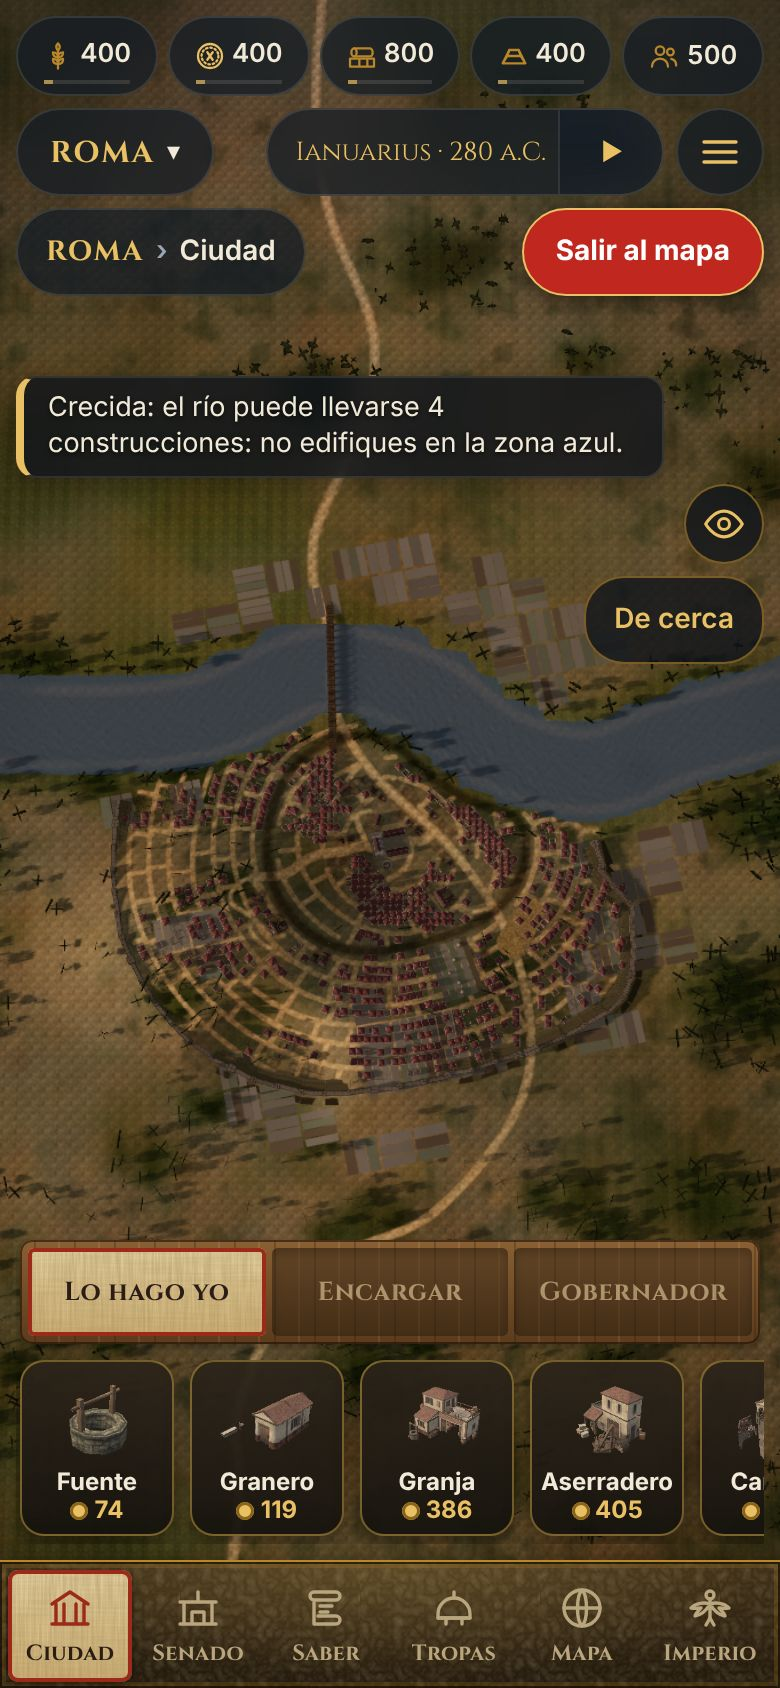
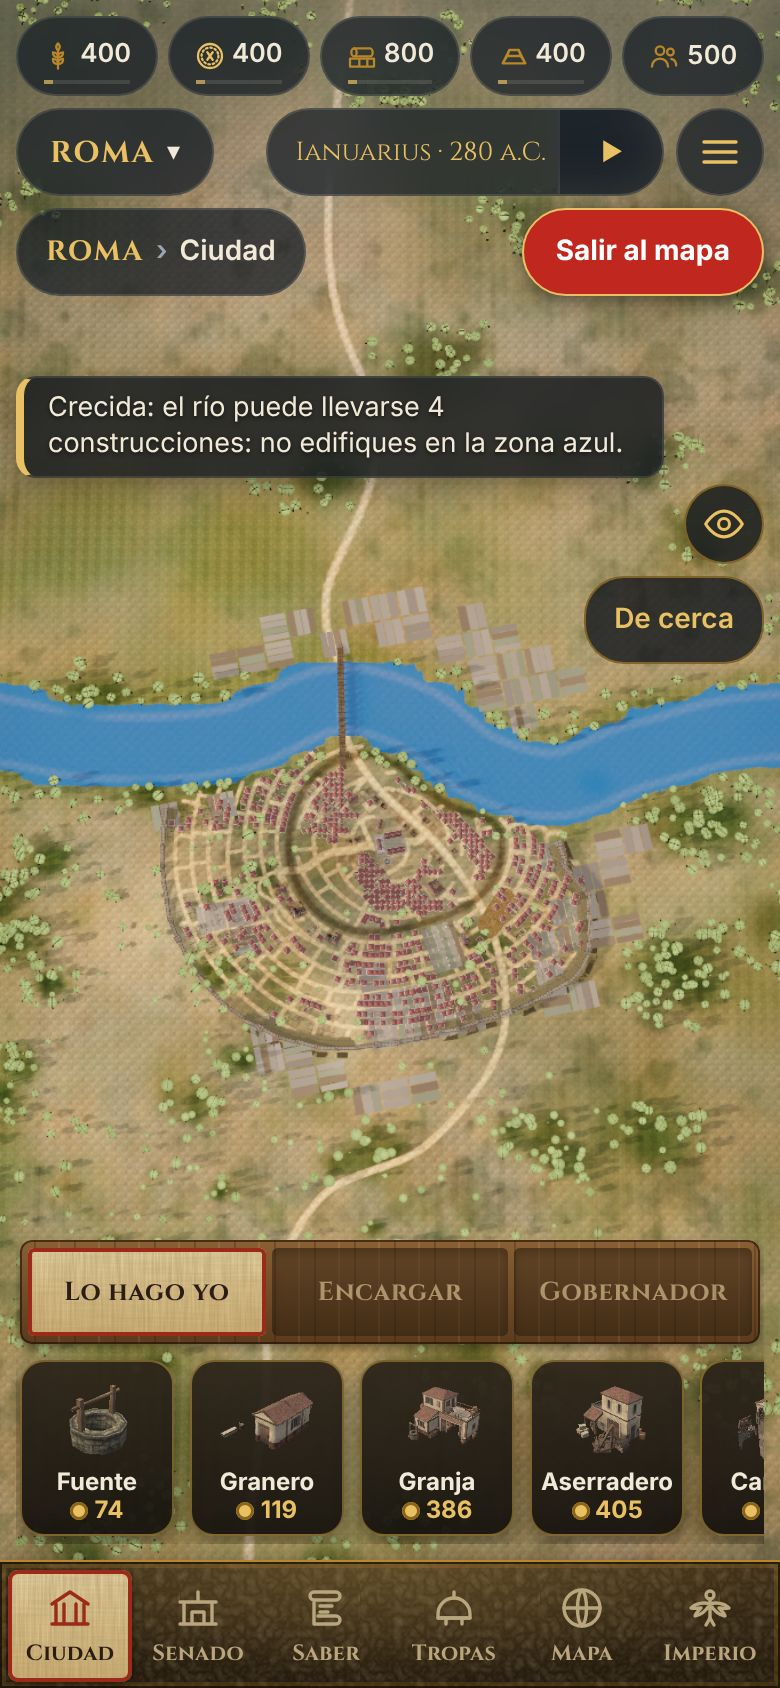
CV1: vuelta de aspecto del plano (luz clara, copas verdes, río azul, más margen, gestos probados); jueces en curso
Claude-Session: https://claude.ai/code/session_01QiKC36fkB6CriHUBrbSzEz

diff --git a/sw.js b/sw.js
@@ -1,5 +1,5 @@
 /* AQVILA — service worker: todo el juego queda en caché para jugar sin conexión */
-const CACHE = 'aqvila-v142';
+const CACHE = 'aqvila-v143';
 const FILES = ['assets/sonido/clamor1.mp3', 'assets/sonido/clamor2.mp3', 'assets/sonido/coro1.mp3', 'assets/sonido/cuerno1.mp3', 'assets/sonido/cuerno2.mp3', 'assets/sonido/escudo1.mp3', 'assets/sonido/escudo2.mp3', 'assets/sonido/escudo3.mp3', 'assets/sonido/escudo4.mp3', 'assets/sonido/esfuerzo1.mp3', 'assets/sonido/esfuerzo2.mp3', 'assets/sonido/esfuerzo3.mp3', 'assets/sonido/esfuerzo4.mp3', 'assets/sonido/grito1.mp3', 'assets/sonido/grito2.mp3', 'assets/sonido/grito3.mp3', 'assets/sonido/herido1.mp3', 'assets/sonido/herido2.mp3', 'assets/sonido/hierro1.mp3', 'assets/sonido/hierro2.mp3', 'assets/sonido/hierro3.mp3', 'assets/sonido/hierro4.mp3', 'assets/sonido/lucha1.mp3', 'assets/sonido/lucha2.mp3', 'assets/sonido/madera1.mp3', 'assets/sonido/madera2.mp3', 'assets/sonido/madera3.mp3', 'assets/sonido/madera4.mp3', 'assets/sonido/paso1.mp3', 'assets/sonido/paso2.mp3', 'assets/sonido/paso3.mp3', 'assets/sonido/paso4.mp3', 'assets/sonido/viento1.mp3', 'assets/sonido/vuelo1.mp3', 'assets/sonido/vuelo2.mp3', 'assets/sonido/vuelo3.mp3', 'assets/soldados/movimientos_escudo_36.bin', 'assets/soldados/movimientos_escudo_74.bin', 'assets/soldados/falangita.bin', 'assets/soldados/falangita.json', 'assets/soldados/falangita_color.webp', 'assets/soldados/falangita_fondo.bin', 'assets/soldados/falangita_fondo.json', 'assets/soldados/falangita_fondo_color.webp', 'assets/soldados/falangita_fondo_masc.webp', 'assets/soldados/falangita_fondo_normal.webp', 'assets/soldados/falangita_fondo_orm.webp', 'assets/soldados/falangita_lejos.bin', 'assets/soldados/falangita_lejos.json', 'assets/soldados/falangita_lejos_color.webp', 'assets/soldados/falangita_lejos_masc.webp', 'assets/soldados/falangita_lejos_normal.webp', 'assets/soldados/falangita_lejos_orm.webp', 'assets/soldados/falangita_masc.webp', 'assets/soldados/falangita_muylejos.bin', 'assets/soldados/falangita_muylejos.json', 'assets/soldados/falangita_muylejos_color.webp', 'assets/soldados/falangita_muylejos_masc.webp', 'assets/soldados/falangita_muylejos_normal.webp', 'assets/soldados/falangita_muylejos_orm.webp', 'assets/soldados/falangita_normal.webp', 'assets/soldados/falangita_orm.webp', 'assets/soldados/hondero.bin', 'assets/soldados/hondero.json', 'assets/soldados/hondero_color.webp', 'assets/soldados/hondero_fondo.bin', 'assets/soldados/hondero_fondo.json', 'assets/soldados/hondero_fondo_color.webp', 'assets/soldados/hondero_fondo_masc.webp', 'assets/soldados/hondero_fondo_normal.webp', 'assets/soldados/hondero_fondo_orm.webp', 'assets/soldados/hondero_lejos.bin', 'assets/soldados/hondero_lejos.json', 'assets/soldados/hondero_lejos_color.webp', 'assets/soldados/hondero_lejos_masc.webp', 'assets/soldados/hondero_lejos_normal.webp', 'assets/soldados/hondero_lejos_orm.webp', 'assets/soldados/hondero_masc.webp', 'assets/soldados/hondero_muylejos.bin', 'assets/soldados/hondero_muylejos.json', 'assets/soldados/hondero_muylejos_color.webp', 'assets/soldados/hondero_muylejos_masc.webp', 'assets/soldados/hondero_muylejos_normal.webp', 'assets/soldados/hondero_muylejos_orm.webp', 'assets/soldados/hondero_normal.webp', 'assets/soldados/hondero_orm.webp', 'assets/soldados/hoplita.bin', 'assets/soldados/hoplita.json', 'assets/soldados/hoplita_color.webp', 'assets/soldados/hoplita_fondo.bin', 'assets/soldados/hoplita_fondo.json', 'assets/soldados/hoplita_fondo_color.webp', 'assets/soldados/hoplita_fondo_masc.webp', 'assets/soldados/hoplita_fondo_normal.webp', 'assets/soldados/hoplita_fondo_orm.webp', 'assets/soldados/hoplita_lejos.bin', 'assets/soldados/hoplita_lejos.json', 'assets/soldados/hoplita_lejos_color.webp', 'assets/soldados/hoplita_lejos_masc.webp', 'assets/soldados/hoplita_lejos_normal.webp', 'assets/soldados/hoplita_lejos_orm.webp', 'assets/soldados/hoplita_masc.webp', 'assets/soldados/hoplita_muylejos.bin', 'assets/soldados/hoplita_muylejos.json', 'assets/soldados/hoplita_muylejos_color.webp', 'assets/soldados/hoplita_muylejos_masc.webp', 'assets/soldados/hoplita_muylejos_normal.webp', 'assets/soldados/hoplita_muylejos_orm.webp', 'assets/soldados/hoplita_normal.webp', 'assets/soldados/hoplita_orm.webp', 'assets/soldados/ibero.bin', 'assets/soldados/ibero.json', 'assets/soldados/ibero_color.webp', 'assets/soldados/ibero_fondo.bin', 'assets/soldados/ibero_fondo.json', 'assets/soldados/ibero_fondo_color.webp', 'assets/soldados/ibero_fondo_masc.webp', 'assets/soldados/ibero_fondo_normal.webp', 'assets/soldados/ibero_fondo_orm.webp', 'assets/soldados/ibero_lejos.bin', 'assets/soldados/ibero_lejos.json', 'assets/soldados/ibero_lejos_color.webp', 'assets/soldados/ibero_lejos_masc.webp', 'assets/soldados/ibero_lejos_normal.webp', 'assets/soldados/ibero_lejos_orm.webp', 'assets/soldados/ibero_masc.webp', 'assets/soldados/ibero_muylejos.bin', 'assets/soldados/ibero_muylejos.json', 'assets/soldados/ibero_muylejos_color.webp', 'assets/soldados/ibero_muylejos_masc.webp', 'assets/soldados/ibero_muylejos_normal.webp', 'assets/soldados/ibero_muylejos_orm.webp', 'assets/soldados/ibero_normal.webp', 'assets/soldados/ibero_orm.webp', 'assets/soldados/movimientos_sarisa_36.bin', 'assets/soldados/movimientos_sarisa_74.bin', 'assets/soldados/peltasta.bin', 'assets/soldados/peltasta.json', 'assets/soldados/peltasta_color.webp', 'assets/soldados/peltasta_fondo.bin', 'assets/soldados/peltasta_fondo.json', 'assets/soldados/peltasta_fondo_color.webp', 'assets/soldados/peltasta_fondo_masc.webp', 'assets/soldados/peltasta_fondo_normal.webp', 'assets/soldados/peltasta_fondo_orm.webp', 'assets/soldados/peltasta_lejos.bin', 'assets/soldados/peltasta_lejos.json', 'assets/soldados/peltasta_lejos_color.webp', 'assets/soldados/peltasta_lejos_masc.webp', 'assets/soldados/peltasta_lejos_normal.webp', 'assets/soldados/peltasta_lejos_orm.webp', 'assets/soldados/peltasta_masc.webp', 'assets/soldados/peltasta_muylejos.bin', 'assets/soldados/peltasta_muylejos.json', 'assets/soldados/peltasta_muylejos_color.webp', 'assets/soldados/peltasta_muylejos_masc.webp', 'assets/soldados/peltasta_muylejos_normal.webp', 'assets/soldados/peltasta_muylejos_orm.webp', 'assets/soldados/peltasta_normal.webp', 'assets/soldados/peltasta_orm.webp', 'assets/soldados/triario.bin', 'assets/soldados/triario.json', 'assets/soldados/triario_color.webp', 'assets/soldados/triario_fondo.bin', 'assets/soldados/triario_fondo.json', 'assets/soldados/triario_fondo_color.webp', 'assets/soldados/triario_fondo_masc.webp', 'assets/soldados/triario_fondo_normal.webp', 'assets/soldados/triario_fondo_orm.webp', 'assets/soldados/triario_lejos.bin', 'assets/soldados/triario_lejos.json', 'assets/soldados/triario_lejos_color.webp', 'assets/soldados/triario_lejos_masc.webp', 'assets/soldados/triario_lejos_normal.webp', 'assets/soldados/triario_lejos_orm.webp', 'assets/soldados/triario_masc.webp', 'assets/soldados/triario_muylejos.bin', 'assets/soldados/triario_muylejos.json', 'assets/soldados/triario_muylejos_color.webp', 'assets/soldados/triario_muylejos_masc.webp', 'assets/soldados/triario_muylejos_normal.webp', 'assets/soldados/triario_muylejos_orm.webp', 'assets/soldados/triario_normal.webp', 'assets/soldados/triario_orm.webp', 'assets/soldados/velite.bin', 'assets/soldados/velite.json', 'assets/soldados/velite_color.webp', 'assets/soldados/velite_fondo.bin', 'assets/soldados/velite_fondo.json', 'assets/soldados/velite_fondo_color.webp', 'assets/soldados/velite_fondo_masc.webp', 'assets/soldados/velite_fondo_normal.webp', 'assets/soldados/velite_fondo_orm.webp', 'assets/soldados/velite_lejos.bin', 'assets/soldados/velite_lejos.json', 'assets/soldados/velite_lejos_color.webp', 'assets/soldados/velite_lejos_masc.webp', 'assets/soldados/velite_lejos_normal.webp', 'assets/soldados/velite_lejos_orm.webp', 'assets/soldados/velite_masc.webp', 'assets/soldados/velite_muylejos.bin', 'assets/soldados/velite_muylejos.json', 'assets/soldados/velite_muylejos_color.webp', 'assets/soldados/velite_muylejos_masc.webp', 'assets/soldados/velite_muylejos_normal.webp', 'assets/soldados/velite_muylejos_orm.webp', 'assets/soldados/velite_normal.webp', 'assets/soldados/velite_orm.webp', 'js/gfx/soldado.js', 'assets/soldados/LICENSE.txt', 'assets/soldados/galo.bin', 'assets/soldados/galo.json', 'assets/soldados/galo_color.webp', 'assets/soldados/galo_fondo.bin', 'assets/soldados/galo_fondo.json', 'assets/soldados/galo_fondo_color.webp', 'assets/soldados/galo_fondo_masc.webp', 'assets/soldados/galo_fondo_normal.webp', 'assets/soldados/galo_fondo_orm.webp', 'assets/soldados/galo_lejos.bin', 'assets/soldados/galo_lejos.json', 'assets/soldados/galo_lejos_color.webp', 'assets/soldados/galo_lejos_masc.webp', 'assets/soldados/galo_lejos_normal.webp', 'assets/soldados/galo_lejos_orm.webp', 'assets/soldados/galo_masc.webp', 'assets/soldados/galo_muylejos.bin', 'assets/soldados/galo_muylejos.json', 'assets/soldados/galo_muylejos_color.webp', 'assets/soldados/galo_muylejos_masc.webp', 'assets/soldados/galo_muylejos_normal.webp', 'assets/soldados/galo_muylejos_orm.webp', 'assets/soldados/galo_normal.webp', 'assets/soldados/galo_orm.webp', 'assets/soldados/hastatus.bin', 'assets/soldados/hastatus.json', 'assets/soldados/hastatus_color.webp', 'assets/soldados/hastatus_fondo.bin', 'assets/soldados/hastatus_fondo.json', 'assets/soldados/hastatus_fondo_color.webp', 'assets/soldados/hastatus_fondo_masc.webp', 'assets/soldados/hastatus_fondo_normal.webp', 'assets/soldados/hastatus_fondo_orm.webp', 'assets/soldados/hastatus_lejos.bin', 'assets/soldados/hastatus_lejos.json', 'assets/soldados/hastatus_lejos_color.webp', 'assets/soldados/hastatus_lejos_masc.webp', 'assets/soldados/hastatus_lejos_normal.webp', 'assets/soldados/hastatus_lejos_orm.webp', 'assets/soldados/hastatus_masc.webp', 'assets/soldados/hastatus_muylejos.bin', 'assets/soldados/hastatus_muylejos.json', 'assets/soldados/hastatus_muylejos_color.webp', 'assets/soldados/hastatus_muylejos_masc.webp', 'assets/soldados/hastatus_muylejos_normal.webp', 'assets/soldados/hastatus_muylejos_orm.webp', 'assets/soldados/hastatus_normal.webp', 'assets/soldados/hastatus_orm.webp', 'gobierno/maquetas/falange/', 'gobierno/maquetas/falange/index.html', 'gobierno/maquetas/falange/acciones.js', 'gobierno/maquetas/falange/camara.js', 'gobierno/maquetas/falange/campo.js', 'gobierno/maquetas/falange/enemigo.js', 'gobierno/maquetas/falange/escena.js', 'gobierno/maquetas/falange/esqueleto.js', 'gobierno/maquetas/falange/formacion.js', 'gobierno/maquetas/falange/hud.js', 'gobierno/maquetas/falange/locomocion.js', 'gobierno/maquetas/falange/soldado.js', 'gobierno/maquetas/falange/sonido.js', 'gobierno/maquetas/falange/unidad.js', 'gobierno/maquetas/a-pie/', 'gobierno/maquetas/a-pie/index.html', 'gobierno/maquetas/a-pie/escena.js', 'gobierno/maquetas/a-pie/acciones.js', 'gobierno/maquetas/a-pie/camara.js', 'gobierno/maquetas/a-pie/campo.js', 'gobierno/maquetas/a-pie/enemigo.js', 'gobierno/maquetas/a-pie/esqueleto.js', 'gobierno/maquetas/a-pie/formacion.js', 'gobierno/maquetas/a-pie/hud.js', 'gobierno/maquetas/a-pie/locomocion.js', 'gobierno/maquetas/a-pie/soldado.js', 'gobierno/maquetas/a-pie/sonido.js', 'gobierno/maquetas/a-pie/unidad.js', 'gobierno/maquetas/testudo-luz-campo/arte/cielo.jpg', 'gobierno/maquetas/testudo-luz-campo/arte/detalle.png', 'gobierno/maquetas/testudo-luz-campo/arte/hierba_seca.jpg', 'gobierno/maquetas/testudo-luz-campo/arte/hierba_verde.jpg', 'gobierno/maquetas/testudo-luz-campo/arte/roca.jpg', 'gobierno/maquetas/testudo-luz-campo/arte/tierra.jpg', './', 'index.html', 'css/style.css', 'css/maniobra.css', 'css/guerra.css', 'assets/fuentes/cinzel-400.woff2', 'assets/fuentes/cinzel-700.woff2', 'js/data.js', 'js/asesor.js', 'js/diplomacia.js', 'js/ciudad.js', 'js/codice.js', 'js/registro.js', 'js/carga.js', 'js/battle.js', 'js/game.js', 'js/maniobra.js', 'js/ui-maniobra.js', 'js/guerra.js', 'js/ui-guerra.js', 'js/ui.js', 'js/ui-escaramuza.js', 'js/gfx/models.js', 'js/gfx/sonido.js', 'js/gfx/sonido-ciudad.js', 'js/gfx/map3d.js', 'assets/mapa/costa.js', 'assets/mapa/alturas.js', 'assets/mapa/agua.js', 'js/gfx/units.js', 'js/gfx/statics.js', 'js/gfx/city3d.js', 'js/gfx/movil.js', 'js/gfx/vida.js', 'js/gfx/fachadas.js', 'js/gfx/roma-siglo.js', 'js/gfx/campos.js', 'js/gfx/civicas.js', 'js/gfx/trajin.js', 'js/gfx/ground.js', 'js/gfx/mundo.js', 'js/gfx/fluidez.js', 'assets/static/static.json', 'assets/units/units.json', 'js/vendor/three.module.min.js', 'manifest.webmanifest', 'icons/icon.svg', 'icons/icon-192.png', 'icons/icon-512.png', 'js/vendor/postprocessing/EffectComposer.js', 'js/vendor/postprocessing/RenderPass.js', 'js/vendor/postprocessing/ShaderPass.js', 'js/vendor/postprocessing/OutlinePass.js', 'js/vendor/postprocessing/Pass.js', 'js/vendor/postprocessing/MaskPass.js', 'js/vendor/postprocessing/CopyShader.js', 'js/gfx/campo-mando.js', 'css/mando.css', 'js/ui-mando.js', 'js/simulador.js'];
 self.addEventListener('install', e => { e.waitUntil(caches.open(CACHE).then(c => c.addAll(FILES)).then(() => self.skipWaiting())); });
 self.addEventListener('activate', e => { e.waitUntil(caches.keys().then(ks => Promise.all(ks.filter(k => k !== CACHE).map(k => caches.delete(k)))).then(() => self.clients.claim())); });

diff --git a/js/gfx/city3d.js b/js/gfx/city3d.js
@@ -212,18 +212,26 @@ const ANCLAS = [
 for (const a of ANCLAS) { a.dir = new THREE.Vector3(...a.dir).normalize(); for (const k of ['sol', 'hc', 'hg', 'h']) a[k] = new THREE.Color(a[k]); }
 const ORO = { sol: new THREE.Color('#ff8f3c'), h: new THREE.Color('#e2a574'), hc: new THREE.Color('#d8a888') };
 const _c1 = new THREE.Color(), _sm = x => { x = Math.max(0, Math.min(1, x)); return x * x * (3 - 2 * x); };
-let nieblaBase = 0.00029, nieblaK = 1, estSol = -1, luzT = NaN, cieloU = null, noche = 0, estK = 1, estF = 0;
+let hemiBase = 1.45, solBase = 3.3, copasM = null, nieblaBase = 0.00029, nieblaK = 1, estSol = -1, luzT = NaN, cieloU = null, noche = 0, estK = 1, estF = 0;
 /* CN15a: estación actual para quien la necesite. k = ancla de la que se parte (0 primavera, 1 verano, 2 otoño, 3 invierno; el índice A de luz()), f = mezcla suave hacia la siguiente (0..1), ks = estación del calendario */
 export function estacionActual() { return { k: estK, f: estF, ks: estSol < 0 ? estK : estSol }; }
+/* CV1: el aspecto de plano (niebla, luz, exposición, río, copas de árbol) sale de un solo número, 0 de cerca y 1 en plano, derivado de nieblaK */
+const PLANO_LUZ = { exposicion: 0.65, hemi: 1.3, sol: 0.2 }, AZUL_RIO = new THREE.Color('#2f7fae'), _rio0 = new THREE.Color('#6f8288');
+function ambientePlano() {
+  const k = Math.max(0, Math.min(1, (1 - nieblaK) / 0.98)); scene.fog.density = nieblaBase * nieblaK;
+  hemi.intensity = hemiBase * (1 + PLANO_LUZ.hemi * k); sol.intensity = solBase * (1 + PLANO_LUZ.sol * k); renderer.toneMappingExposure = 0.92 + PLANO_LUZ.exposicion * k;
+  if (rio && rio.material) rio.material.color.copy(_rio0).lerp(AZUL_RIO, k);
+  if (copasM) { copasM.visible = k > 0.02 && copasM.count > 0; copasM.material.opacity = k; }
+}
 function luz() {
   const Gm = window.Game, t = Gm && Gm.state && typeof Gm.state.t === 'number' ? Gm.state.t : 7.5; if (t === luzT) return; luzT = t;
   const u = t / 3, a = u - 0.5, i0 = Math.floor(a), f = _sm(a - i0), A = ANCLAS[((i0 + 3) % 4 + 4) % 4], B = ANCLAS[((i0 + 4) % 4 + 4) % 4], ks = ((Math.floor(u) + 3) % 4 + 4) % 4; estK = ((i0 + 3) % 4 + 4) % 4; estF = f; Campos.estacion(estK, estF);
   const fm = t - Math.floor(t), oro = DIA_NOCHE ? Math.min(1, _sm((fm - 0.7) / 0.25) + 1 - _sm(fm / 0.12)) : 0;          // tarde dorada: sube al final del mes y baja al empezar el siguiente
   noche = DIA_NOCHE ? Math.min(1, _sm((fm - 0.85) / 0.12) + 1 - _sm(fm / 0.08)) : 0;
   if (ks !== estSol) { estSol = ks; SOL.copy(ANCLAS[ks].dir); sol.position.set(0, 0, -70).addScaledVector(SOL, 1500); if (cieloU) cieloU.uSol.value.copy(SOL); sombraPend = true; }
-  sol.color.copy(A.sol).lerp(B.sol, f).lerp(ORO.sol, oro * 0.75); sol.intensity = (A.si + (B.si - A.si) * f) * (1 - 0.3 * oro);
-  hemi.color.copy(A.hc).lerp(B.hc, f).lerp(ORO.hc, oro * 0.45); hemi.groundColor.copy(A.hg).lerp(B.hg, f); hemi.intensity = (A.hi + (B.hi - A.hi) * f) * (1 - 0.18 * oro);
-  _c1.copy(A.h).lerp(B.h, f).lerp(ORO.h, oro * 0.5); scene.background.copy(_c1); scene.fog.color.copy(_c1); nieblaBase = A.fog + (B.fog - A.fog) * f; scene.fog.density = nieblaBase * nieblaK;
+  sol.color.copy(A.sol).lerp(B.sol, f).lerp(ORO.sol, oro * 0.75); solBase = (A.si + (B.si - A.si) * f) * (1 - 0.3 * oro);
+  hemi.color.copy(A.hc).lerp(B.hc, f).lerp(ORO.hc, oro * 0.45); hemi.groundColor.copy(A.hg).lerp(B.hg, f); hemiBase = (A.hi + (B.hi - A.hi) * f) * (1 - 0.18 * oro);
+  _c1.copy(A.h).lerp(B.h, f).lerp(ORO.h, oro * 0.5); scene.background.copy(_c1); scene.fog.color.copy(_c1); nieblaBase = A.fog + (B.fog - A.fog) * f; ambientePlano();
   if (cieloU) for (const c of cieloU.uH) c.copy(_c1);
 }
 const sol = new THREE.DirectionalLight('#ffdfb4', 3.3), hemi = new THREE.HemisphereLight('#b6c6de', '#927252', 1.45);
@@ -375,7 +383,18 @@ function edificios() {
 }
 function arboles() { const n = E.arboles.reduce((s, a) => s + (a.talado ? 1 : 0), 0), fa = ANDAMIO_NUEVO ? obrasF.filter(o => !o.pausa).map(o => o.x + ',' + o.z).join('|') : ''; if (n === nTalados && fa === firmaArb) return; nTalados = n; firmaArb = fa; const act = ANDAMIO_NUEVO ? obrasF.filter(o => !o.pausa) : []; const arb = {}, te = LUZ_ESTACIONAL ? tintesEstacion(estK, estQ / 8).arbol : [1, 1, 1];      // te: tinte de la estación (multiplica el color de cada árbol)
   for (const a of [...E.arboles, ...Campos.arbolesExtra()]) { if (a.talado) continue; if (act.length && act.some(o => Math.hypot(a.x - o.x, a.z - o.z) < 3.5)) continue; if (rellenoC && rellenoC.has(Math.floor((a.z - CI.Z0) / CI.C) * CI.N + Math.floor((a.x - CI.X0) / CI.C))) continue; if (Campos.tapa(a.x, a.z)) continue; const y = altura(a.x, a.z), v = 0.62 + 0.3 * a.tono, col = a.pieza === 'olivo' ? [v * 1.7, v * 1.7, v * 1.5] : a.pieza === 'cipres' ? [v * 1.5, v * 1.5, v * 1.2] : [v * 1.9, v * 1.75, v * 1.25]; (arb[a.pieza] = arb[a.pieza] || []).push({ m: matriz(a.x, y - 0.3, a.z, a.ang, a.esc, a.esc * (0.9 + 0.3 * a.tono), a.esc), muro: [col[0] * te[0], col[1] * te[1], col[2] * te[2]] }); }
-  for (const k in L.arbol) L.arbol[k].poner(arb[k] || []); }
+  for (const k in L.arbol) L.arbol[k].poner(arb[k] || []);
+  copas(te); }
+/* CV1: en plano cada árbol lleva una copa redonda plana (disco con borde oscuro) sobre su cartel; solo se ve en plano */
+function copas(te) {
+  if (!copasM) { const g = new THREE.CircleGeometry(1, 14); g.rotateX(-Math.PI / 2); const n = g.attributes.position.count, c = new Float32Array(n * 3); for (let i = 0; i < n; i++) { const centro = i === 0 ? 1 : 0.62; c.set([centro, centro, centro * 0.9], i * 3); } g.setAttribute('color', new THREE.BufferAttribute(c, 3));
+    copasM = new THREE.InstancedMesh(g, new THREE.MeshLambertMaterial({ vertexColors: true, transparent: true, opacity: 0, depthWrite: false }), 9000); copasM.count = 0; copasM.visible = false; copasM.frustumCulled = false; copasM.renderOrder = 3; scene.add(copasM); }
+  const col = new THREE.Color(), m4 = new THREE.Matrix4(); let n = 0;
+  for (const a of [...E.arboles, ...Campos.arbolesExtra()]) { if (n >= 9000) break; if (a.talado || Campos.tapa(a.x, a.z)) continue; if (rellenoC && rellenoC.has(Math.floor((a.z - CI.Z0) / CI.C) * CI.N + Math.floor((a.x - CI.X0) / CI.C))) continue;
+    const st = pieza(a.pieza); if (!st) continue; const b = st.bb, r = Math.max(b[3] - b[0], b[5] - b[2]) * 0.5 * a.esc * 0.8, y = altura(a.x, a.z) + (b[4] - b[1]) * a.esc * 0.8;
+    copasM.setMatrixAt(n, m4.compose(new THREE.Vector3(a.x, y, a.z), _q.identity(), new THREE.Vector3(r, 1, r))); const v = 0.85 + 0.3 * a.tono;
+    copasM.setColorAt(n, col.setRGB(0.26 * v * te[0] * 1.6, 0.5 * v * te[1] * 1.3, 0.16 * v * te[2] * 1.4)); n++; }
+  copasM.count = n; copasM.instanceMatrix.needsUpdate = true; if (copasM.instanceColor) copasM.instanceColor.needsUpdate = true; ambientePlano(); }
 /* UR1 (usuario, 20/11: «muralla de madera que la ciudad se la ha comido»): con la urbe grande a la vista (E.urbe, plano 3) la muralla se DIBUJA por el borde
    de fuera, abrazando todas las casas, y no por el surco de dentro. Solo vista: la fase, las puertas del juego y «dentro o fuera» siguen saliendo de ciudad.js.
    Puertas dibujadas: donde una vía ancha (camino o vía) cruza ese borde. Devuelve null si la ciudad no tiene urbe: entonces, el surco de siempre. */
@@ -773,19 +792,19 @@ export class CityView3D {
       this.camA = null; this._prev = { tx: cam.tx, tz: cam.tz, d: cam.d, az: cam.az, elF: cam.elF || 0 };
       const u = E && E.urbe, f = E && E.foro, R = (u && u.RU ? Math.max(...u.RU) + 7 : 300), cx = f ? f.x : 0, cz = f ? f.z : -20, asp = vista.w / Math.max(1, vista.h), fov = vista.w < vista.h ? 50 : 38;
       const tv = Math.tan(fov * Math.PI / 360), th = Math.min(tv, tv * asp);
-      a = { tx: cx, tz: cz, d: Math.min(4000, R * 1.4 / th), az: cam.az, el: PLANO_EL * Math.PI / 180, nk: 0.02 }; cam.dMax = 4000; this._plano = true;
+      a = { tx: cx, tz: cz, d: Math.min(4000, R * 1.7 / th), az: cam.az, el: PLANO_EL * Math.PI / 180, nk: 0.02 }; cam.dMax = 4000; this._plano = true;
     } else {
       const P = hacia || this._prev || { tx: cam.tx, tz: cam.tz, d: Math.min(cam.d, 640), az: cam.az, elF: 0 }, efi = P.elF || 0;
       a = { tx: P.tx, tz: P.tz, d: P.d, az: P.az === undefined ? cam.az : P.az, el: efi || kEl(P.d), nk: 1, fin: true, elF: efi }; this._plano = false; this._prev = null;
     }
     if (!de.el) de.el = kEl(de.d);
-    if (ya) { this.planoA = null; Object.assign(cam, { tx: a.tx, tz: a.tz, d: a.d, az: a.az, elF: a.elF || 0 }); nieblaK = a.nk; if (scene.fog) scene.fog.density = nieblaBase * nieblaK; if (!on) delete cam.dMax; ponerCamara(); return; }
+    if (ya) { this.planoA = null; Object.assign(cam, { tx: a.tx, tz: a.tz, d: a.d, az: a.az, elF: a.elF || 0 }); nieblaK = a.nk; ambientePlano(); if (!on) delete cam.dMax; ponerCamara(); return; }
     cam.elF = de.el; this.planoA = { t0: now, de, a }; if (this.opts && this.opts.onPlano && !hacia) this.opts.onPlano(on);
   }
   planoPaso() {
     const A = this.planoA;
     if (A) { const u = Math.min(1, (performance.now() - A.t0) / 800), f = u * u * (3 - 2 * u), d = A.de, a = A.a, L = (x, y) => x + (y - x) * f;
-      cam.tx = L(d.tx, a.tx); cam.tz = L(d.tz, a.tz); cam.d = Math.exp(L(Math.log(d.d), Math.log(a.d))); cam.az = L(d.az, a.az); cam.elF = L(d.el, a.el); nieblaK = L(d.nk, a.nk); scene.fog.density = nieblaBase * nieblaK;
+      cam.tx = L(d.tx, a.tx); cam.tz = L(d.tz, a.tz); cam.d = Math.exp(L(Math.log(d.d), Math.log(a.d))); cam.az = L(d.az, a.az); cam.elF = L(d.el, a.el); nieblaK = L(d.nk, a.nk); ambientePlano();
       if (u >= 1) { this.planoA = null; if (a.fin) { cam.elF = a.elF || 0; delete cam.dMax; } } }
     else if (this._plano && cam.d < 300) { this.plano(false, { tx: cam.tx, tz: cam.tz, d: cam.d, az: cam.az }); if (this.opts && this.opts.onPlano) this.opts.onPlano(false); }
   }
